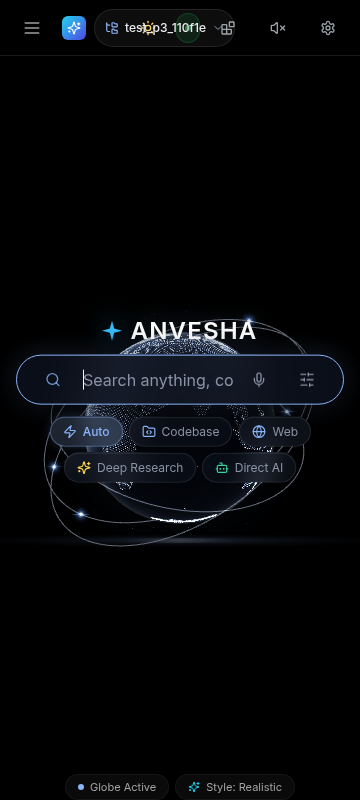
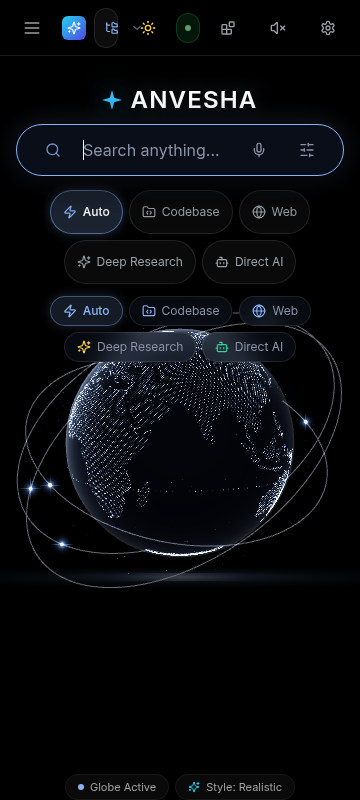
feat(mobile-ui): refine mobile vertical composition, declutter top navigation, and add search mode selection pills

diff --git a/frontend/src/components/SearchBar.tsx b/frontend/src/components/SearchBar.tsx
@@ -162,6 +162,8 @@ export const SearchBar: React.FC<SearchBarProps> = ({
     }
   };
 
+  const isMobileScreen = typeof window !== 'undefined' && window.innerWidth < 640;
+
   const handleSubmit = (e: React.FormEvent) => {
     e.preventDefault();
     if (query.trim()) {
@@ -182,7 +184,7 @@ export const SearchBar: React.FC<SearchBarProps> = ({
       <form onSubmit={handleSubmit} className="w-full relative group">
         {/* Luminous Translucent Pill Search Container */}
         <div
-          className={`relative flex items-center w-full h-[50px] sm:h-[52px] px-3.5 sm:px-5 rounded-full transition-all duration-300 select-none bg-[#0e1320]/75 backdrop-blur-xl border ${
+          className={`relative flex items-center w-full h-[52px] sm:h-[54px] px-3.5 sm:px-5 rounded-full transition-all duration-300 select-none bg-[#0e1320]/75 backdrop-blur-xl border ${
             isListening
               ? 'border-[#8ab4f8] ring-2 ring-[#8ab4f8]/35 shadow-[0_0_28px_rgba(138,180,248,0.3)]'
               : 'border-white/15 hover:border-[#8ab4f8]/45 focus-within:border-[#8ab4f8] shadow-[0_8px_32px_rgba(0,0,0,0.65),0_0_20px_rgba(138,180,248,0.08)] focus-within:shadow-[0_8px_36px_rgba(0,0,0,0.75),0_0_28px_rgba(138,180,248,0.2)]'
@@ -223,6 +225,8 @@ export const SearchBar: React.FC<SearchBarProps> = ({
             placeholder={
               isListening
                 ? 'Listening... Speak your question'
+                : isMobileScreen
+                ? 'Search anything...'
                 : 'Search anything, code, research, web...'
             }
             className="flex-1 bg-transparent text-[#f8fafc] placeholder-[#8a93a6] text-[16px] font-normal outline-none tracking-normal font-sans min-w-0"
@@ -351,6 +355,38 @@ export const SearchBar: React.FC<SearchBarProps> = ({
           </div>
         )}
       </form>
+
+      {/* Search Mode Selection Pills (Google-style immediate intent routing) */}
+      <div className="mt-3.5 sm:mt-4 w-full flex items-center justify-center gap-1.5 sm:gap-2 flex-wrap pointer-events-auto px-1">
+        {[
+          { id: 'auto' as SearchMode, label: 'Auto', icon: Zap, activeColor: 'text-[#8ab4f8]' },
+          { id: 'code' as SearchMode, label: 'Codebase', icon: FolderCode, activeColor: 'text-[#8ab4f8]' },
+          { id: 'web' as SearchMode, label: 'Web', icon: Globe, activeColor: 'text-[#8ab4f8]' },
+          { id: 'deep' as SearchMode, label: 'Deep Research', icon: Sparkles, activeColor: 'text-amber-400' },
+          { id: 'direct' as SearchMode, label: 'Direct AI', icon: Bot, activeColor: 'text-emerald-400' },
+        ].map((m) => {
+          const isSelected = searchMode === m.id;
+          const Icon = m.icon;
+          return (
+            <button
+              key={m.id}
+              type="button"
+              onClick={() => {
+                setSearchMode(m.id);
+                setIsFilterOpen(false);
+              }}
+              className={`px-3 py-1.5 min-h-[38px] rounded-full text-xs font-sans transition-all flex items-center gap-1.5 border touch-target ${
+                isSelected
+                  ? 'bg-[#8ab4f8]/20 border-[#8ab4f8]/50 text-white font-medium shadow-[0_0_12px_rgba(138,180,248,0.25)]'
+                  : 'bg-white/[0.04] border-white/10 text-[#9aa0a6] hover:text-[#e8eaed] hover:bg-white/[0.08]'
+              }`}
+            >
+              <Icon className={`w-3.5 h-3.5 ${isSelected ? m.activeColor : 'text-[#9aa0a6]'}`} />
+              <span className="whitespace-nowrap">{m.label}</span>
+            </button>
+          );
+        })}
+      </div>
 
       {/* Voice Transcript / Error Toast */}
       {isListening && (

diff --git a/frontend/src/components/AppHeader.tsx b/frontend/src/components/AppHeader.tsx
@@ -104,14 +104,14 @@ export const AppHeader: React.FC<AppHeaderProps> = ({
         </div>
 
         {/* Project / Workspace Dropdown */}
-        <div className="relative">
+        <div className="relative min-w-0">
           <button
             onClick={() => setProjectDropdownOpen(!projectDropdownOpen)}
-            className="flex items-center gap-1.5 sm:gap-2 px-2.5 sm:px-3 py-1.5 rounded-full bg-white/[0.05] border border-white/10 hover:border-white/20 text-xs font-sans text-[#e8eaed] transition-all min-h-[38px]"
+            className="flex items-center gap-1.5 sm:gap-2 px-2.5 sm:px-3 py-1.5 rounded-full bg-white/[0.05] border border-white/10 hover:border-white/20 text-xs font-sans text-[#e8eaed] transition-all min-h-[40px] max-w-full"
             title="Switch Workspace Project"
           >
             <FolderTree className="w-3.5 h-3.5 text-[#8ab4f8] shrink-0" />
-            <span className="font-medium truncate max-w-[85px] xs:max-w-[120px] sm:max-w-[180px]">
+            <span className="font-medium truncate max-w-[120px] xs:max-w-[160px] sm:max-w-[200px]">
               {activeProject?.name || 'Main Repository'}
             </span>
             <ChevronDown className="w-3 h-3 text-[#9aa0a6] shrink-0" />
@@ -288,16 +288,16 @@ export const AppHeader: React.FC<AppHeaderProps> = ({
                 : 'bg-[#f28b82]'
             }`}
           />
-          <span className="capitalize hidden xs:inline">{connection.status}</span>
+          <span className="capitalize hidden sm:inline">{connection.status}</span>
           {connection.latencyMs !== null && (
-            <span className="text-[#9aa0a6] hidden sm:inline">({connection.latencyMs}ms)</span>
+            <span className="text-[#9aa0a6] hidden md:inline">({connection.latencyMs}ms)</span>
           )}
         </div>
 
-        {/* Extension Platform Drawer Trigger (Hidden on very narrow mobile <360px to prevent crowding) */}
+        {/* Extension Platform Drawer Trigger (Hidden on mobile <sm to prevent toolbar crowding) */}
         <button
           onClick={onToggleExtensionPanel}
-          className={`hidden xs:flex p-2 rounded-full transition-all touch-target ${
+          className={`hidden sm:flex p-2 rounded-full transition-all touch-target ${
             isExtensionPanelOpen
               ? 'bg-[#8ab4f8]/20 text-[#8ab4f8]'
               : 'text-[#9aa0a6] hover:text-[#e8eaed] hover:bg-white/10'
@@ -308,10 +308,10 @@ export const AppHeader: React.FC<AppHeaderProps> = ({
           <Blocks className="w-4 h-4" />
         </button>
 
-        {/* Spatial Audio Quick Trigger Button */}
+        {/* Spatial Audio Quick Trigger Button (Hidden on mobile <sm to prevent toolbar crowding) */}
         <button
           onClick={onOpenAudioModal}
-          className={`hidden xs:flex p-2 rounded-full transition-all touch-target ${
+          className={`hidden sm:flex p-2 rounded-full transition-all touch-target ${
             soundEnabled
               ? 'bg-[#8ab4f8]/20 text-[#8ab4f8]'
               : 'text-[#9aa0a6] hover:text-[#e8eaed] hover:bg-white/10'

diff --git a/frontend/src/components/EarthGlobe.tsx b/frontend/src/components/EarthGlobe.tsx
@@ -211,14 +211,15 @@ export const EarthGlobe: React.FC<EarthGlobeProps> = ({
         }
       } else {
         // Mobile & Tablet: responsive viewport-aware camera calculation
-        // Keeps sphere scaled comfortably (~50% width on phones, max 220px) without covering search bar
+        // Keeps sphere scaled comfortably (~60% width on phones, max 240px) without covering search bar
         const isPortrait = h > w;
         const targetPixelDiameter = isPortrait
-          ? Math.min(w * 0.52, Math.min(h * 0.30, 220))
-          : Math.min(h * 0.50, 240);
+          ? Math.min(w * 0.62, Math.min(h * 0.35, 240))
+          : Math.min(h * 0.52, 260);
         const halfFovRad = (fov / 2) * (Math.PI / 180);
         const zDist = (sphereRadius / Math.tan(halfFovRad)) * (h / Math.max(120, targetPixelDiameter));
-        camera.position.set(0, 0, Math.max(7.8, Math.min(32.0, zDist)));
+        const yOffset = isPortrait ? 0.32 : 0;
+        camera.position.set(0, yOffset, Math.max(7.8, Math.min(32.0, zDist)));
       }
       camera.aspect = w / h;
       camera.updateProjectionMatrix();

diff --git a/frontend/src/components/EarthGlobeV3.tsx b/frontend/src/components/EarthGlobeV3.tsx
@@ -195,11 +195,12 @@ export const EarthGlobeV3: React.FC<EarthGlobeV3Props> = ({
         // Mobile & Tablet: responsive viewport-aware camera calculation
         const isPortrait = h > w;
         const targetPixelDiameter = isPortrait
-          ? Math.min(w * 0.52, Math.min(h * 0.30, 220))
-          : Math.min(h * 0.50, 240);
+          ? Math.min(w * 0.62, Math.min(h * 0.35, 240))
+          : Math.min(h * 0.52, 260);
         const halfFovRad = (fov / 2) * (Math.PI / 180);
         const zDist = (sphereRadius / Math.tan(halfFovRad)) * (h / Math.max(120, targetPixelDiameter));
-        camera.position.set(0, 0, Math.max(7.8, Math.min(32.0, zDist)));
+        const yOffset = isPortrait ? 0.32 : 0;
+        camera.position.set(0, yOffset, Math.max(7.8, Math.min(32.0, zDist)));
       }
       camera.aspect = w / h;
       camera.updateProjectionMatrix();

diff --git a/frontend/src/components/EarthGlobeV4.tsx b/frontend/src/components/EarthGlobeV4.tsx
@@ -157,11 +157,12 @@ export const EarthGlobeV4: React.FC<EarthGlobeV4Props> = ({
         // Mobile & Tablet: responsive viewport-aware camera calculation
         const isPortrait = h > w;
         const targetPixelDiameter = isPortrait
-          ? Math.min(w * 0.52, Math.min(h * 0.30, 220))
-          : Math.min(h * 0.50, 240);
+          ? Math.min(w * 0.62, Math.min(h * 0.35, 240))
+          : Math.min(h * 0.52, 260);
         const halfFovRad = (fov / 2) * (Math.PI / 180);
         const zDist = (sphereRadius / Math.tan(halfFovRad)) * (h / Math.max(120, targetPixelDiameter));
-        camera.position.set(0, 0, Math.max(7.8, Math.min(32.0, zDist)));
+        const yOffset = isPortrait ? 0.32 : 0;
+        camera.position.set(0, yOffset, Math.max(7.8, Math.min(32.0, zDist)));
       }
       camera.aspect = w / h;
       camera.updateProjectionMatrix();

diff --git a/frontend/src/components/SearchHomepage.tsx b/frontend/src/components/SearchHomepage.tsx
@@ -108,7 +108,7 @@ export const SearchHomepage: React.FC<SearchHomepageProps> = ({
       />
 
       {/* Centered Integrated Stack: Wordmark in Visual Center of Globe, Search Bar directly beneath */}
-      <main className="relative z-20 flex-1 flex flex-col items-center justify-center px-4 sm:px-6 pointer-events-none -translate-y-[2%] sm:-translate-y-[3%]">
+      <main className="relative z-20 flex-1 flex flex-col items-center justify-start pt-8 xs:pt-10 sm:pt-14 lg:justify-center lg:pt-0 px-4 sm:px-6 pointer-events-none">
         {/* ANVESHA Brand Wordmark (Clean Centered Display) */}
         <div className="text-center mb-3 sm:mb-6 pointer-events-auto flex items-center justify-center gap-2 sm:gap-3">
           {/* Sparkle 4-point star icon */}
